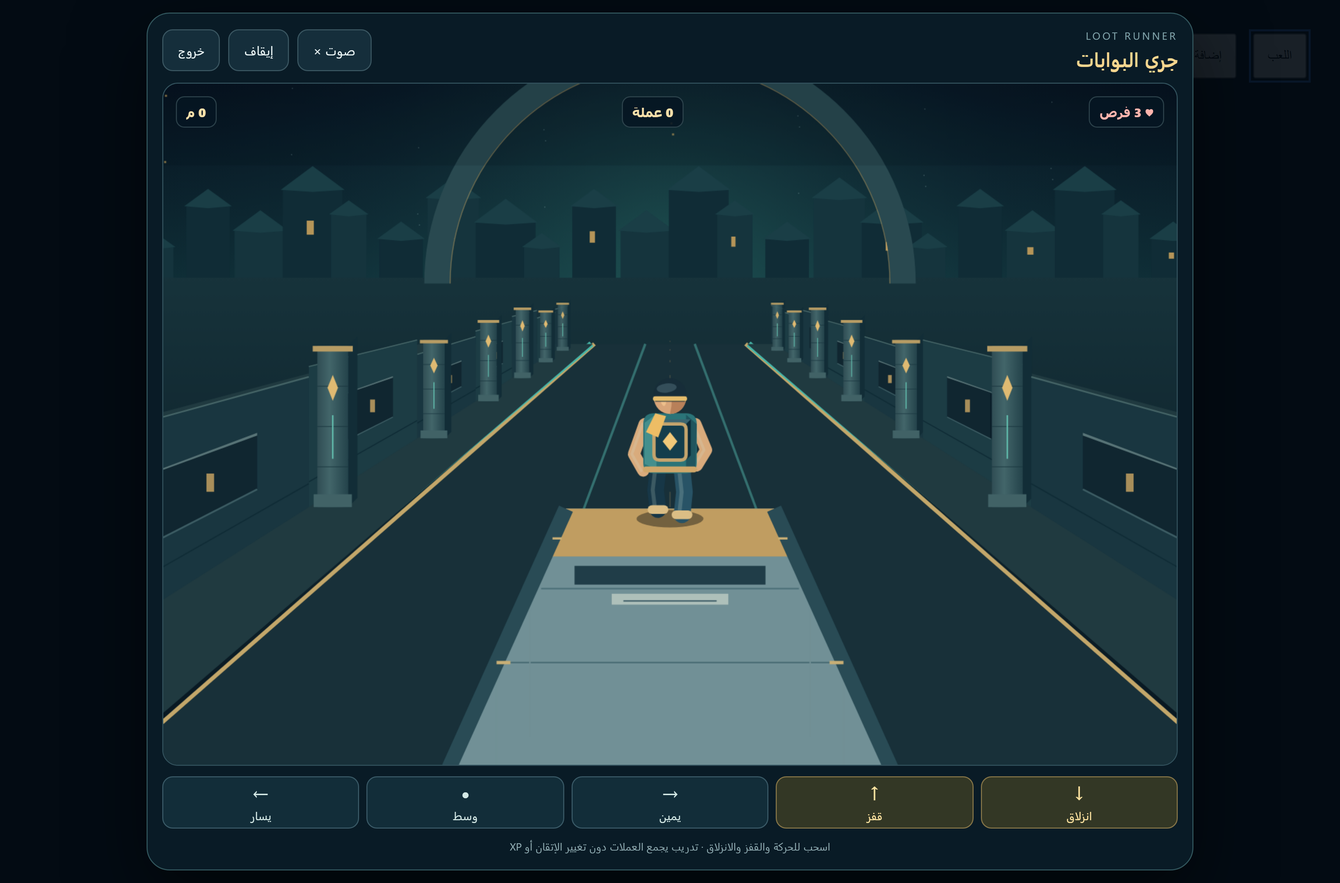
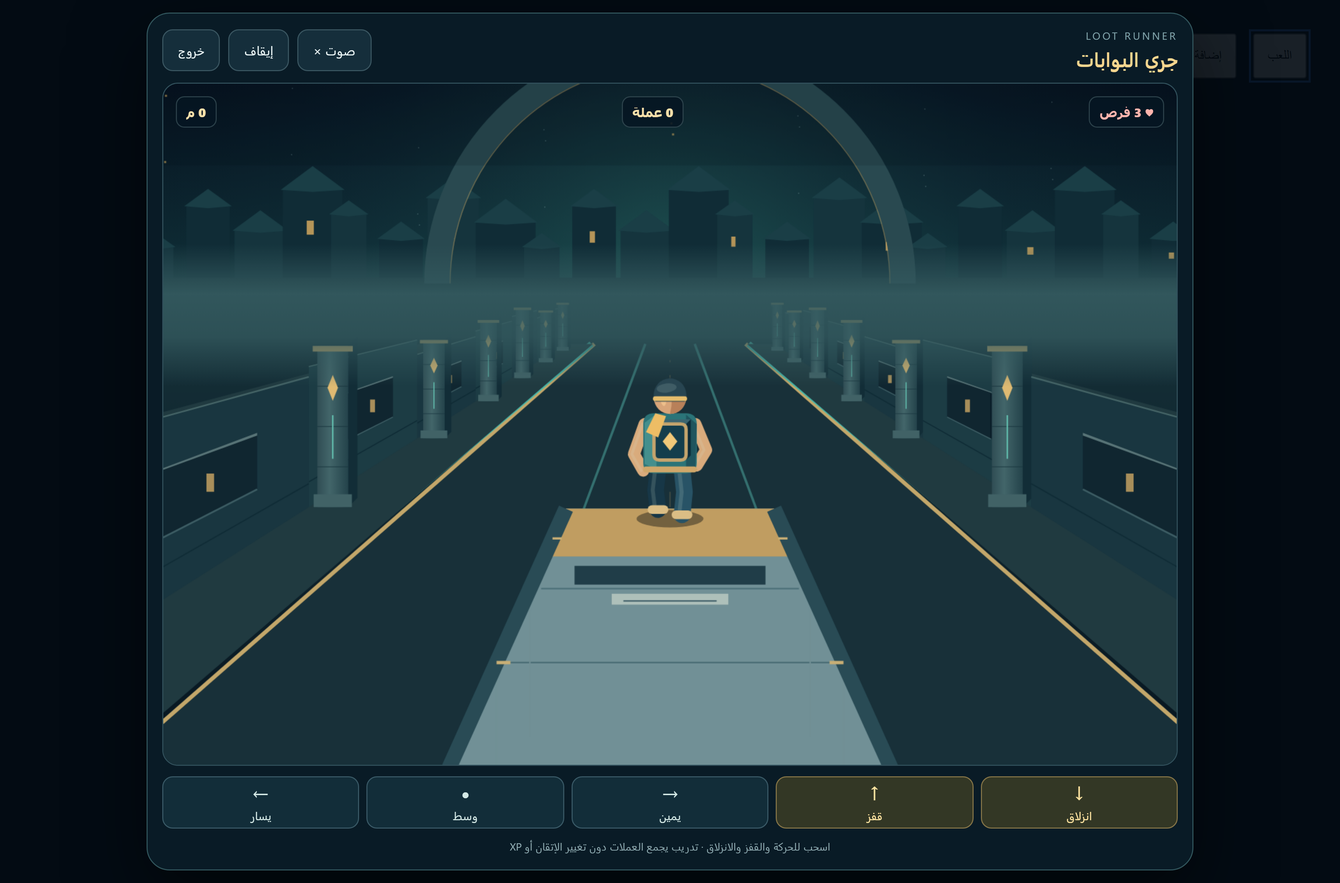
Fix Runner occlusion and add ducking panels, deep gate tunnels and horizon haze

Changed region(s): [[0.125, 0.312, 0.875, 0.4056]]

diff --git a/js/runner-renderer.js b/js/runner-renderer.js
@@ -14,10 +14,16 @@
     const background = document.createElement('canvas');
     const back = background.getContext('2d', { alpha: false });
     let width = 1, height = 1, dpr = 1, laneWidth = 1, horizon = 1, ground = 1, actorHeight = 1;
-    let destroyed = false, visualLane = 1, lastElapsed = null, activeTime = 0;
+    let destroyed = false, visualLane = 1, lastElapsed = null, activeTime = 0, horizonFog;
     const ordered = [], vehicles = [];
     const metrics = { drawn: 0, culled: 0, dpr: 1 };
-    const byDepth = (a, b) => b.z - a.z;
+    function paintDepth(entity) {
+      if (entity.kind === 'coin' && (entity.height ?? .44) >= VEHICLE_HEIGHT) {
+        for (const truck of vehicles) if (truck.lane === entity.lane && entity.z >= truck.z + VEHICLE_RAMP && entity.z <= truck.z + truck.length) return truck.z - .001;
+      }
+      return entity.z;
+    }
+    const byDepth = (a, b) => paintDepth(b) - paintDepth(a);
 
     function rounded(ctx, x, y, w, h, radius) {
       const r = Math.min(radius, w / 2, h / 2);
@@ -97,6 +103,9 @@
       horizon = height * .285; ground = height * .84;
       actorHeight = clamp(Math.min(height * .2, laneWidth * .85), 57, 128);
       metrics.dpr = dpr; cacheBackground();
+      horizonFog = context.createLinearGradient(0, horizon - height * .05, 0, horizon + height * .16);
+      horizonFog.addColorStop(0, 'rgba(53,91,96,0)'); horizonFog.addColorStop(.35, 'rgba(53,91,96,.9)');
+      horizonFog.addColorStop(.65, 'rgba(53,91,96,.76)'); horizonFog.addColorStop(1, 'rgba(53,91,96,0)');
     }
     function road(distance) {
       const nearLeft = project(-.54, -6), nearRight = project(2.54, -6);
@@ -184,7 +193,11 @@
       const phase = time * .005 + (Number(entity.id) || 0), radius = laneWidth * .095 * p.scale;
       const x = p.x, y = p.y - actorHeight * (entity.height ?? .44) * p.scale + Math.sin(phase * 1.7) * radius * .12;
       shadow(x, p.y + 1, radius * 1.25, radius * .28, .23);
-      context.save(); context.translate(x, y); context.scale(Math.max(.23, Math.abs(Math.cos(phase))), 1);
+      const face = Math.max(.14, Math.abs(Math.cos(phase))), thickness = radius * .25 * Math.abs(Math.sin(phase));
+      context.save(); context.translate(x, y);
+      context.fillStyle = '#a66d26'; context.beginPath(); context.ellipse(thickness, 0, radius * face, radius, 0, 0, Math.PI * 2); context.fill();
+      context.fillRect(0, -radius, thickness, radius * 2);
+      context.scale(face, 1);
       const metal = context.createLinearGradient(-radius, -radius, radius, radius);
       metal.addColorStop(0, '#fff0a5'); metal.addColorStop(.45, '#f7c558'); metal.addColorStop(1, '#a96520');
       context.fillStyle = metal; context.strokeStyle = '#ffdc80'; context.lineWidth = Math.max(.5, radius * .12);
@@ -199,8 +212,11 @@
       if (!foreground) shadow(p.x, p.y, w * .58, h * .1, .36);
       if (type === 'train') {
         const point = position => {
-          const p = project(entity.lane, entity.z + position);
-          const level = root.LootLinguaRunnerEngine.vehicleSurface(entity, -position);
+          // Clip the mesh in world space. Clamping each rear vertex's depth
+          // separately used to stretch the loading ramp over the roof.
+          const clipped = Math.min(entity.length + VEHICLE_EXIT, Math.max(position, NEAR - entity.z));
+          const p = project(entity.lane, entity.z + clipped);
+          const level = root.LootLinguaRunnerEngine.vehicleSurface(entity, -clipped);
           return { ...p, w: laneWidth * .76 * p.scale, top: p.y - actorHeight * level * p.scale };
         };
         const rear = point(0), ramp = point(VEHICLE_RAMP), end = point(entity.length), exit = point(entity.length + VEHICLE_EXIT), cab = point(entity.length - 3);
@@ -209,6 +225,7 @@
         quad(context, end.x - end.w / 2, end.top, end.x + end.w / 2, end.top, exit.x + exit.w / 2, exit.y, exit.x - exit.w / 2, exit.y, '#526768');
         line(context, end.x, end.top, exit.x, exit.y, '#829594', Math.max(1, end.scale * 2));
         for (const offset of [7.5, entity.length - 3]) {
+          if (entity.z + offset < NEAR) continue;
           const axle = project(entity.lane, entity.z + offset), aw = laneWidth * .76 * axle.scale;
           for (const side of [-1, 1]) {
             const x = axle.x + side * aw * .48, y = axle.y - actorHeight * .08 * axle.scale;
@@ -224,31 +241,56 @@
         quad(context, end.x - end.w / 2, end.top, end.x + end.w / 2, end.top, end.x + end.w / 2, end.y - actorHeight * .1 * end.scale, end.x - end.w / 2, end.y - actorHeight * .1 * end.scale, '#907443');
         quad(context, ramp.x - ramp.w / 2, ramp.top, end.x - end.w / 2, end.top, end.x + end.w / 2, end.top, ramp.x + ramp.w / 2, ramp.top, '#719096');
         for (const offset of [10, 15]) {
+          if (entity.z + offset < NEAR) continue;
           const vent = point(offset), vw = vent.w * .4;
           context.fillStyle = '#aec0ba'; context.fillRect(vent.x - vw / 2, vent.top - actorHeight * .04 * vent.scale, vw, actorHeight * .06 * vent.scale);
           line(context, vent.x - vw * .4, vent.top, vent.x + vw * .4, vent.top, '#405e68', Math.max(1, vent.scale));
         }
         for (let offset = 8; offset < entity.length - 3; offset += 2.5) {
+          if (entity.z + offset < NEAR) continue;
           const rib = point(offset);
           line(context, rib.x - rib.w * .46, rib.top, rib.x + rib.w * .46, rib.top, '#4b6e76', Math.max(1, rib.scale));
           for (const side of [-1, 1]) line(context, rib.x + side * rib.w * .5, rib.top, rib.x + side * rib.w * .5, rib.y - actorHeight * .2 * rib.scale, '#719095', Math.max(1, rib.scale));
         }
         quad(context, cab.x - cab.w / 2, cab.top, end.x - end.w / 2, end.top, end.x + end.w / 2, end.top, cab.x + cab.w / 2, cab.top, '#c09d61');
         line(context, cab.x - cab.w * .38, cab.top + actorHeight * .12 * cab.scale, cab.x + cab.w * .38, cab.top + actorHeight * .12 * cab.scale, '#203d48', Math.max(2, actorHeight * .12 * cab.scale));
-        quad(context, rear.x - rear.w / 2, rear.y, rear.x + rear.w / 2, rear.y, ramp.x + ramp.w / 2, ramp.top, ramp.x - ramp.w / 2, ramp.top, '#a88e59');
+        quad(context, rear.x - rear.w / 2, rear.top, rear.x + rear.w / 2, rear.top, ramp.x + ramp.w / 2, ramp.top, ramp.x - ramp.w / 2, ramp.top, '#a88e59');
         for (let offset = 1; offset < VEHICLE_RAMP; offset++) {
+          if (entity.z + offset < NEAR) continue;
           const tread = point(offset);
           line(context, tread.x - tread.w * .47, tread.top, tread.x + tread.w * .47, tread.top, '#4b5a55', Math.max(1, tread.scale * 1.5));
         }
         for (const side of [-1, 1]) {
           // Vehicle edges have their own metal trim, distinct from road lines.
-          line(context, rear.x + side * rear.w / 2, rear.y, ramp.x + side * ramp.w / 2, ramp.top, '#d1b579', Math.max(1, ramp.scale * 2));
+          line(context, rear.x + side * rear.w / 2, rear.top, ramp.x + side * ramp.w / 2, ramp.top, '#d1b579', Math.max(1, ramp.scale * 2));
           line(context, ramp.x + side * ramp.w / 2, ramp.top, end.x + side * end.w / 2, end.top, '#294b55', Math.max(2, ramp.scale * 3));
           for (const offset of [8, 13, 18]) {
+            if (entity.z + offset < NEAR) continue;
             const cap = point(offset);
             line(context, cap.x + side * cap.w * .46, cap.top, cap.x + side * cap.w * .5, cap.top, '#c8ae75', Math.max(1, cap.scale * 2));
           }
         }
+        return;
+      }
+      if (type === 'duckwall') {
+        const left = p.x - w / 2, top = p.y - h * 1.65, bottom = p.y - h * .58, panelHeight = bottom - top, depth = h * .1;
+        for (const post of [left, left + w * .9]) {
+          context.fillStyle = '#35515b'; context.fillRect(post, top, w * .1, h * 1.65);
+          quad(context, post + w * .1, top, post + w * .1 + depth, top - depth, post + w * .1 + depth, p.y - depth, post + w * .1, p.y, '#1b303a');
+        }
+        quad(context, left, top, left + depth, top - depth, left + w + depth, top - depth, left + w, top, '#e1bd79');
+        quad(context, left + w, top, left + w + depth, top - depth, left + w + depth, bottom - depth, left + w, bottom, '#755d39');
+        context.fillStyle = '#d3a65d'; context.fillRect(left, top, w, panelHeight);
+        context.fillStyle = '#28434c'; context.fillRect(left + w * .06, top + panelHeight * .06, w * .88, panelHeight * .88);
+        for (const level of [.2, .53]) {
+          const y = top + panelHeight * level;
+          quad(context, p.x, y + panelHeight * .23, left + w * .92, y, left + w * .92, y + panelHeight * .13, p.x, y + panelHeight * .36, '#e4bc70');
+          quad(context, left + w * .08, y, p.x, y + panelHeight * .23, p.x, y + panelHeight * .36, left + w * .08, y + panelHeight * .13, '#e4bc70');
+        }
+        for (const side of [left + w * .07, left + w * .93]) for (const y of [top + panelHeight * .07, bottom - panelHeight * .07]) {
+          context.fillStyle = '#182f3b'; context.beginPath(); context.arc(side, y, w * .045, 0, Math.PI * 2); context.fill();
+        }
+        line(context, left, bottom, left + w, bottom, '#f4d18a', Math.max(1, h * .035));
         return;
       }
       if (type === 'overhead') {
@@ -284,28 +326,81 @@
         line(context, x + w * .92, y + blockHeight * .1, x + w * .08, y + blockHeight * .9, '#b38c57', Math.max(1, h * .05));
       }
     }
-    function gate(entity, state) {
-      if (!entity.resolved) {
-        const a = project(-.56, entity.z), b = project(2.56, entity.z);
-        const farLeft = project(-.56, FAR), farRight = project(2.56, FAR);
-        // Opaque veil hides the continuing road until the physical crossing.
-        quad(context, a.x, a.y, b.x, b.y, farRight.x, farRight.y, farLeft.x, farLeft.y, '#040c18');
-      }
+    function portalPath(z) {
+      const headroom = Math.max(2.4, (ground - horizon) / actorHeight + .7);
       for (let lane = 0; lane < 3; lane++) {
-        const p = project(lane, entity.z), w = laneWidth * .9 * p.scale, h = actorHeight * 1.48 * p.scale;
-        const x = p.x - w / 2, y = p.y - h, rim = Math.max(2, w * .085), color = laneColors[lane];
-        shadow(p.x, p.y, w * .58, h * .04, .2);
-        context.fillStyle = entity.resolved ? (state.feedback?.correct ? '#135846' : '#642a39') : '#040c18'; rounded(context, x + rim, y + rim, w - rim * 2, h - rim, w * .44); context.fill();
-        context.strokeStyle = '#172d38'; context.lineWidth = rim * 2.8; context.lineCap = 'butt';
-        context.beginPath(); context.moveTo(x + rim, p.y); context.lineTo(x + rim, y + w * .48);
-        context.quadraticCurveTo(x + rim, y + rim, p.x, y + rim); context.quadraticCurveTo(x + w - rim, y + rim, x + w - rim, y + w * .48); context.lineTo(x + w - rim, p.y); context.stroke();
-        context.strokeStyle = color; context.lineWidth = Math.max(1, rim * .35); context.stroke();
-        context.fillStyle = '#dfbc7b'; context.fillRect(x, p.y - rim * .9, rim * 2, rim); context.fillRect(x + w - rim * 2, p.y - rim * .9, rim * 2, rim);
-        context.fillStyle = color; context.beginPath(); context.moveTo(p.x, y - rim); context.lineTo(p.x + rim * .62, y + rim * .8); context.lineTo(p.x, y + rim * 2); context.lineTo(p.x - rim * .62, y + rim * .8); context.fill();
-        if (entity.resolved && state.feedback?.chosenLane === lane) {
-          context.strokeStyle = state.feedback.correct ? '#81f6a5' : '#fa8278'; context.lineWidth = rim * .7;
-          context.beginPath(); context.moveTo(x, p.y); context.lineTo(x + w, p.y); context.stroke();
+        const p = project(lane, z), w = laneWidth * .9 * p.scale, h = actorHeight * headroom * p.scale;
+        const x = p.x - w / 2, y = p.y - h;
+        context.moveTo(x, p.y); context.lineTo(x, y + w * .48);
+        context.quadraticCurveTo(x, y, p.x, y); context.quadraticCurveTo(x + w, y, x + w, y + w * .48);
+        context.lineTo(x + w, p.y); context.closePath();
+      }
+    }
+    function tunnelFloor(entity) {
+      const front = Math.max(NEAR, entity.z), end = entity.z + (entity.length || 42);
+      if (end < NEAR) return;
+      const a = project(-.62, front), b = project(2.62, front), c = project(2.62, end), d = project(-.62, end);
+      quad(context, a.x, a.y, b.x, b.y, c.x, c.y, d.x, d.y, '#10232d');
+      for (const lane of [.5, 1.5]) {
+        const near = project(lane, front), far = project(lane, end);
+        line(context, near.x, near.y, far.x, far.y, '#406a70', Math.max(1, near.scale));
+      }
+    }
+    function gate(entity, state) {
+      const length = entity.length || 42, front = Math.max(NEAR, entity.z), end = entity.z + length;
+      const headroom = Math.max(2.4, (ground - horizon) / actorHeight + .7);
+      if (end < NEAR) return;
+      context.save();
+      if (entity.z > NEAR) { context.beginPath(); portalPath(entity.z); context.clip(); }
+      const ring = z => [0, .25, .5, .75, 1].map((t, index) => {
+        const p = project(-.62 + 3.24 * t, z), h = headroom + [0, .55, .75, .55, 0][index];
+        return { x: p.x, y: p.y - actorHeight * h * p.scale, ground: p.y, scale: p.scale };
+      });
+      const near = ring(front), far = ring(end);
+      quad(context, near[0].x, near[0].ground, far[0].x, far[0].ground, far[0].x, far[0].y, near[0].x, near[0].y, '#203d46');
+      quad(context, near[4].x, near[4].ground, far[4].x, far[4].ground, far[4].x, far[4].y, near[4].x, near[4].y, '#132c38');
+      for (let i = 0; i < 4; i++) quad(context, near[i].x, near[i].y, near[i + 1].x, near[i + 1].y, far[i + 1].x, far[i + 1].y, far[i].x, far[i].y, i < 2 ? '#1b3541' : '#122a36');
+      for (let offset = length; offset >= 0; offset -= 6) {
+        const z = entity.z + offset;
+        if (z < NEAR) continue;
+        const arch = ring(z);
+        context.strokeStyle = offset === length ? '#7ca7a0' : '#36575f'; context.lineWidth = Math.max(1, arch[0].scale * 4);
+        context.beginPath(); context.moveTo(arch[0].x, arch[0].ground);
+        for (const p of arch) context.lineTo(p.x, p.y);
+        context.lineTo(arch[4].x, arch[4].ground); context.stroke();
+      }
+      for (const offset of [8, 20, 32]) {
+        const z = entity.z + offset;
+        if (z < NEAR) continue;
+        for (const lane of [-.6, 2.6]) {
+          const p = project(lane, z), y = p.y - actorHeight * .95 * p.scale;
+          context.fillStyle = '#dfbc70'; context.fillRect(p.x - p.scale * 2, y, p.scale * 4, actorHeight * .14 * p.scale);
         }
+      }
+      context.restore();
+      if (entity.z <= NEAR) return;
+      const left = project(-2.4, entity.z), right = project(4.4, entity.z), center = project(1, entity.z);
+      const peak = center.y - actorHeight * (headroom + 1.8) * center.scale;
+      const mountainPath = () => {
+        context.moveTo(left.x, left.y); context.lineTo(left.x, peak + actorHeight * center.scale);
+        context.lineTo(center.x - laneWidth * center.scale, peak + actorHeight * .2 * center.scale);
+        context.lineTo(center.x + laneWidth * .3 * center.scale, peak);
+        context.lineTo(right.x, peak + actorHeight * .95 * center.scale); context.lineTo(right.x, right.y); context.closePath();
+      };
+      context.save(); context.beginPath(); mountainPath(); portalPath(entity.z); context.clip('evenodd');
+      context.fillStyle = '#28414b'; context.fillRect(0, 0, width, height);
+      quad(context, left.x, left.y, left.x, peak, center.x, peak, center.x - laneWidth * center.scale, center.y, '#3c565d');
+      quad(context, center.x, peak, right.x, peak, right.x, right.y, center.x + laneWidth * .8 * center.scale, center.y, '#1d3440');
+      line(context, left.x, peak + actorHeight * center.scale, right.x, peak + actorHeight * .95 * center.scale, '#526c6d', Math.max(1, center.scale * 3));
+      context.restore();
+      for (let lane = 0; lane < 3; lane++) {
+        const p = project(lane, entity.z), w = laneWidth * .9 * p.scale, h = actorHeight * headroom * p.scale;
+        const x = p.x - w / 2, y = p.y - h, rim = Math.max(2, w * .085);
+        context.strokeStyle = '#405861'; context.lineWidth = rim * 1.5;
+        context.beginPath(); context.moveTo(x, p.y); context.lineTo(x, y + w * .48);
+        context.quadraticCurveTo(x, y, p.x, y); context.quadraticCurveTo(x + w, y, x + w, y + w * .48); context.lineTo(x + w, p.y); context.stroke();
+        context.strokeStyle = entity.resolved && state.feedback?.chosenLane === lane ? state.feedback.correct ? '#81f6a5' : '#fa8278' : laneColors[lane];
+        context.lineWidth = Math.max(1, rim * .25); context.stroke();
       }
     }
     function limb(ax, ay, bx, by, cx, cy, color, thickness) {
@@ -394,8 +489,8 @@
       const vehicle = entity.obstacleType === 'train';
       const span = (entity.length || 0) + (vehicle ? VEHICLE_EXIT : 0);
       const a = project(entity.lane ?? 1, entity.z), b = project(entity.lane ?? 1, entity.z + span);
-      const half = laneWidth * (entity.kind === 'gate' ? 1.65 : .65);
-      const body = actorHeight * (entity.kind === 'gate' ? 1.65 : entity.kind === 'coin' ? (entity.height ?? .44) + .2 : 1.6);
+      const half = laneWidth * (entity.kind === 'gate' ? 3.5 : .65);
+      const body = entity.kind === 'gate' ? ground - horizon + actorHeight * 2.6 : actorHeight * (entity.kind === 'coin' ? (entity.height ?? .44) + .2 : 1.9);
       return Math.max(a.x + half * a.scale, b.x + half * b.scale) >= 0 &&
         Math.min(a.x - half * a.scale, b.x - half * b.scale) <= width &&
         Math.min(a.y - body * a.scale, b.y - body * b.scale) <= height && Math.max(a.y, b.y) >= 0;
@@ -419,25 +514,24 @@
       }
       ordered.sort(byDepth);
       const readingGate = ordered.find(item => item.kind === 'gate' && !item.resolved);
+      const passage = ordered.find(item => item.kind === 'gate');
+      if (passage) { context.globalAlpha = opacity(passage, elapsed); tunnelFloor(passage); context.globalAlpha = 1; }
       const pose = root.LootLinguaRunnerEngine.getPose(state);
       const inFront = entity => entity.kind === 'obstacle' && entity.obstacleType !== 'train' && entity.z < 0 && (entity.obstacleType !== 'overhead' || pose.floor < .88);
       for (const entity of ordered) {
         if (readingGate && entity !== readingGate && entity.z > readingGate.z) { metrics.culled++; continue; }
-        if (entity.kind === 'coin' || inFront(entity)) continue;
+        if (entity.kind === 'gate' || inFront(entity)) continue;
         context.globalAlpha = opacity(entity, elapsed);
         const p = project(entity.lane ?? 1, entity.z);
-        if (entity.kind === 'gate' || entity.type === 'gate') gate(entity, state);
+        if (entity.kind === 'coin') coin(entity, p, elapsed);
         else obstacle(entity, p);
         metrics.drawn++;
       }
-      // Coins on a roof are drawn above its surface. Ground coins behind a
-      // vehicle are occluded instead of making the cargo body look transparent.
-      for (const entity of ordered) {
-        if (entity.kind !== 'coin' || readingGate && entity.z > readingGate.z) continue;
-        if (vehicles.some(truck => truck.lane === entity.lane && entity.z >= truck.z && truck.z + truck.length + VEHICLE_EXIT > 0 && (entity.height ?? .44) < VEHICLE_HEIGHT)) continue;
-        context.globalAlpha = opacity(entity, elapsed);
-        coin(entity, project(entity.lane, entity.z), elapsed); metrics.drawn++;
-      }
+      context.globalAlpha = 1;
+      // One cached gradient softens distant births without hiding the road's
+      // nearby hazards. The tunnel facade stays opaque in front of this haze.
+      context.fillStyle = horizonFog; context.fillRect(0, horizon - height * .05, width, height * .21);
+      if (passage) { context.globalAlpha = opacity(passage, elapsed); gate(passage, state); metrics.drawn++; }
       context.globalAlpha = 1;
       actor(state, delta);
       // The vehicle supports the feet, so it stays behind the actor. A beam

diff --git a/js/runner-engine.js b/js/runner-engine.js
@@ -3,6 +3,7 @@
   const LANES = 3, MAX_HEARTS = 3, MAX_ENTITIES = 48, MAX_EVENTS = 16;
   const FAR = 80, SPAWN_Z = 64, BASE_SPEED = 14, MAX_SPEED = 32;
   const NEAR = -15, VEHICLE_HEIGHT = 1.05, VEHICLE_RAMP = 6, VEHICLE_EXIT = 3;
+  const TUNNEL_LENGTH = 42, MIN_ROW_MS = 780;
   // Templates describe relationships, then lanes are shuffled. A truck can
   // accompany any normal hazard, not just another truck.
   const FORMATIONS = [
@@ -10,6 +11,8 @@
     ['train', 'wall', 'wall'], ['train', 'low', 'wall'], ['train', 'overhead', 'wall'],
     ['train', 'low', 'overhead'], ['train', 'train', null], ['train', 'train', 'low'],
     ['train', 'train', 'overhead'], ['train', 'train', 'wall'], ['train', 'train', 'train'],
+    ['train', 'duckwall', null], ['train', 'duckwall', 'low'], ['train', 'train', 'duckwall'],
+    ['duckwall', 'wall', 'low'], ['duckwall', 'overhead', 'train'],
   ];
   const JUMP_MS = 640, SLIDE_MS = 480, ACTION_RECOVERY_MS = 70, INPUT_BUFFER_MS = 140, INVULNERABLE_MS = 1100;
   const clamp = (value, low, high) => Math.max(low, Math.min(high, value));
@@ -128,7 +131,7 @@
       [options[index], options[other]] = [options[other], options[index]];
     }
     options.splice(correctLane, 0, prompt.meaning);
-    return { kind: 'gate', lane: 1, z: SPAWN_Z, word: prompt.word,
+    return { kind: 'gate', lane: 1, z: SPAWN_Z, length: TUNNEL_LENGTH, word: prompt.word,
       options, correctLane: options.indexOf(prompt.meaning), correctMeaning: prompt.meaning };
   }
   function hasGateWords(state) { return state._canGate; }
@@ -187,7 +190,7 @@
     } else if (!draining) {
       for (let index = 0; index < obstacleCount; index++) {
         const lane = blocked[index];
-        layout[lane] = lane === escape ? choose(state, ['low', 'overhead']) : choose(state, ['low', 'overhead', 'wall']);
+        layout[lane] = lane === escape ? choose(state, ['low', 'overhead', 'duckwall']) : choose(state, ['low', 'overhead', 'wall', 'duckwall']);
       }
     }
     for (let lane = 0; lane < LANES; lane++) {
@@ -196,7 +199,7 @@
       const z = spawnZ + (type === 'train' && random(state) < .5 ? lane * 4 : 0);
       allocate(state, { kind: 'obstacle', obstacleType: type, length: type === 'train' ? 20 : 0, lane, z, row, safeRoute: lane === route });
       if (type === 'train') for (const offset of [10, 15]) allocate(state, { kind: 'coin', lane, z: z + offset, height: VEHICLE_HEIGHT + .44, row });
-      if (['low', 'overhead'].includes(type) && random(state) < .65) {
+      if (['low', 'overhead', 'duckwall'].includes(type) && random(state) < .65) {
         for (const offset of [0, 2]) allocate(state, { kind: 'coin', lane, z: spawnZ + offset,
           height: type === 'low' ? 1.5 : .22, requires: type === 'low' ? 'jump' : 'slide', row });
       }
@@ -206,7 +209,7 @@
       allocate(state, { kind: 'coin', lane: escape, z: spawnZ + 6, row });
     }
     state._escapeLane = escape;
-    state._nextRowAt = state.elapsed + Math.max(850, 1250 - difficulty * 400) + random(state) * 180;
+    state._nextRowAt = state.elapsed + Math.max(MIN_ROW_MS, 1150 - difficulty * 370) + random(state) * 160;
   }
   function damage(state, at, cause) {
     if (at < state.invulnerableUntil || state.over) return false;
@@ -234,6 +237,7 @@
     } else if (entity.lane === state.lane && entity.kind === 'obstacle') {
       const pose = getPose(state, at);
       const cleared = entity.obstacleType === 'train' ||
+        entity.obstacleType === 'duckwall' && pose.action === 'slide' && pose.top <= .55 ||
         entity.obstacleType === 'low' && pose.feet >= .37 ||
         entity.obstacleType === 'overhead' && (pose.top <= .6 || pose.feet >= .88) ||
         entity.obstacleType === 'wall' && pose.feet >= 1.4;
@@ -271,6 +275,6 @@
     return state;
   }
   root.LootLinguaRunnerEngine = Object.freeze({ createState, update, move, jump, slide, getAction, getPose, vehicleSurface, normalizeWords, createWordGate,
-    constants: Object.freeze({ LANES, MAX_HEARTS, MAX_ENTITIES, MAX_EVENTS, FAR, NEAR, VEHICLE_HEIGHT, VEHICLE_RAMP, VEHICLE_EXIT, SPAWN_Z, BASE_SPEED, MAX_SPEED, JUMP_MS, SLIDE_MS, INVULNERABLE_MS }),
+    constants: Object.freeze({ LANES, MAX_HEARTS, MAX_ENTITIES, MAX_EVENTS, FAR, NEAR, VEHICLE_HEIGHT, VEHICLE_RAMP, VEHICLE_EXIT, TUNNEL_LENGTH, MIN_ROW_MS, SPAWN_Z, BASE_SPEED, MAX_SPEED, JUMP_MS, SLIDE_MS, INVULNERABLE_MS }),
   });
 })(window);

diff --git a/js/gate-runner.js b/js/gate-runner.js
@@ -95,11 +95,11 @@
     });
     const css = document.querySelector('link[data-runner-style]');
     const styles = css ? Promise.resolve() : new Promise((resolve, reject) => {
-      const link = document.createElement('link'); link.rel = 'stylesheet'; link.href = 'runner.css?v=20261107-runner-volume-1';
+      const link = document.createElement('link'); link.rel = 'stylesheet'; link.href = 'runner.css?v=20261107-runner-tunnel-1';
       link.dataset.runnerStyle = ''; link.onload = resolve; link.onerror = () => { link.remove(); reject(new Error('Runner styles unavailable')); };
       document.head.append(link);
     });
-    resources = Promise.all([styles, module('LootLinguaRunnerEngine', 'js/runner-engine.js?v=20261107-runner-volume-1'), module('LootLinguaRunnerRenderer', 'js/runner-renderer.js?v=20261107-runner-volume-1')]).catch(error => { resources = null; throw error; });
+    resources = Promise.all([styles, module('LootLinguaRunnerEngine', 'js/runner-engine.js?v=20261107-runner-tunnel-1'), module('LootLinguaRunnerRenderer', 'js/runner-renderer.js?v=20261107-runner-tunnel-1')]).catch(error => { resources = null; throw error; });
     return resources;
   }
   function button(label, cls, action) {
@@ -248,8 +248,8 @@
         status.textContent = state.feedback.correct ? 'بوابة صحيحة! أحسنت.' : `المعنى الصحيح: ${state.feedback.correctMeaning || ''}`;
         status.dataset.tone = state.feedback.correct ? 'correct' : 'wrong';
       } else if (!state.feedback) {
-        const nearby = state.entities.find(item => item.kind === 'obstacle' && item.lane === state.lane && item.z > 0 && item.z / state.speed < (['low', 'overhead'].includes(item.obstacleType) ? .62 : 1.1));
-        const text = nearby ? ({ low: '↑ اقفز فوق الحاجز', overhead: '↓ انزلق تحت العارضة', wall: '← غيّر المسار →', train: 'منحدر أمامك — اصعد إلى سطح العربة' }[nearby.obstacleType] || '') : '';
+        const nearby = state.entities.find(item => item.kind === 'obstacle' && item.lane === state.lane && item.z > 0 && item.z / state.speed < (item.obstacleType === 'low' ? .48 : ['overhead', 'duckwall'].includes(item.obstacleType) ? .4 : 1.1));
+        const text = nearby ? ({ low: '↑ اقفز فوق الحاجز', overhead: '↓ انزلق تحت العارضة', duckwall: '↓ انزلق تحت اللوح — القفز لا يتجاوزه', wall: '← غيّر المسار →', train: 'منحدر أمامك — اصعد إلى سطح العربة' }[nearby.obstacleType] || '') : '';
         if (status.textContent !== text) status.textContent = text;
         status.dataset.tone = 'hint';
       }

diff --git a/index.html b/index.html
@@ -1226,7 +1226,7 @@
 <script src="js/xp-batch.js?v=20261105-integrity-1"></script>
 <script src="js/dictionary.js?v=20261106-quota-1"></script>
 <script src="js/gate-game-migration.js?v=20261007-1"></script>
-<script src="js/gate-runner.js?v=20261107-runner-volume-1"></script>
+<script src="js/gate-runner.js?v=20261107-runner-tunnel-1"></script>
 <script src="js/worlds.js?v=20261106-motivation-1"></script>
 <script src="js/dictionary-window.js?v=20261105-render-1"></script>
 <script src="js/dictionary-render.js?v=20261105-pages-1"></script>
